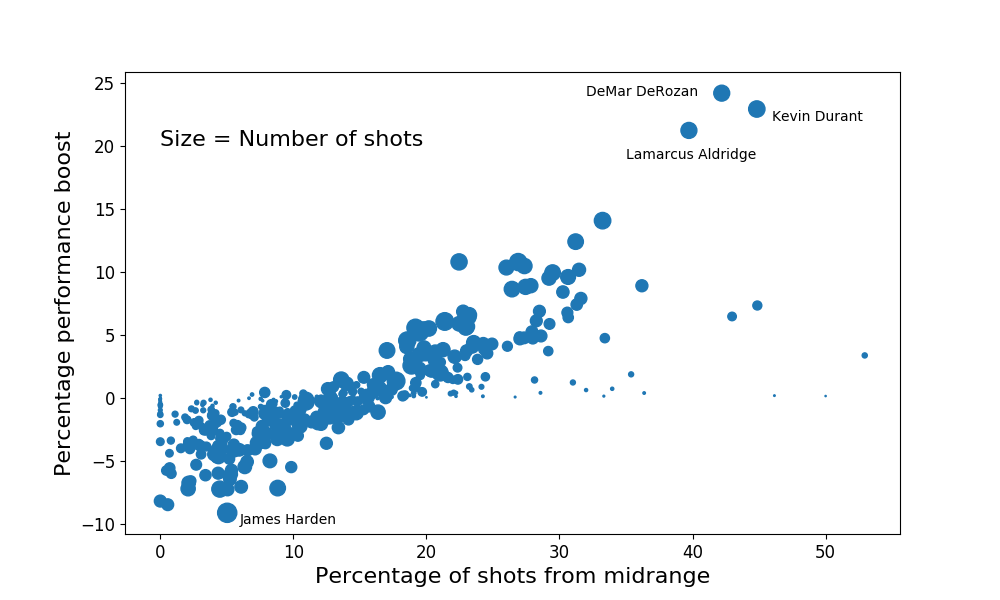
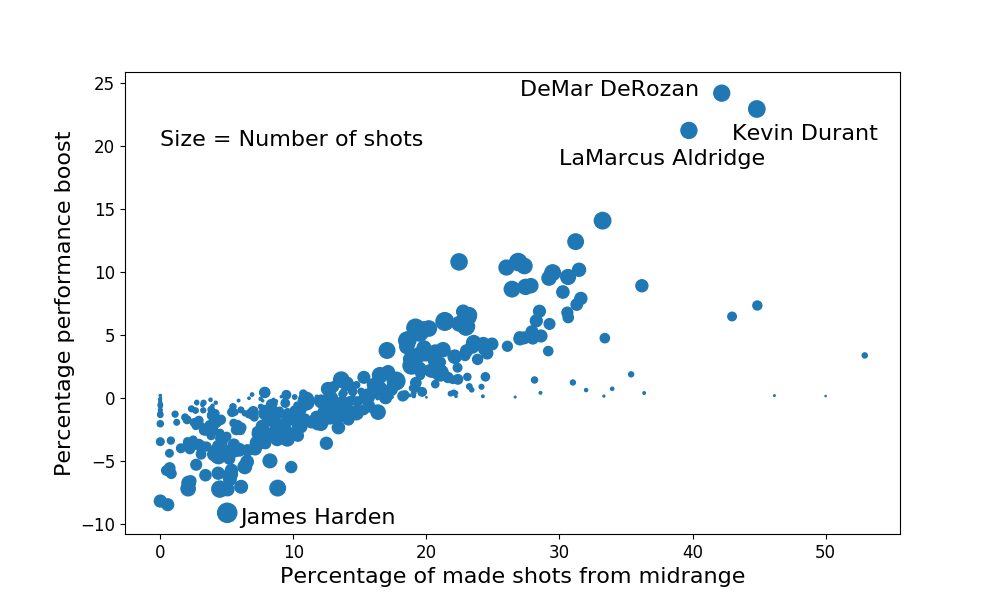
Emi edits

diff --git a/_posts/2019-09-25-nba.md b/_posts/2019-09-25-nba.md
@@ -10,19 +10,19 @@ tags:
 
 The rise of analytics in the NBA has led to the realization that *mid-range shots* (those that come from outside of the key but inside of the three-point line) are a relatively inefficient way to score points. This has resulted in a [league-wide abandonment of the mid-range jumper](https://flowingdata.com/2019/01/15/goodbye-mid-range-shot/) in favor of a [tremendous increase in three-point shots](https://www.theringer.com/nba/2019/2/27/18240583/3-point-boom-nba-daryl-morey). Now, I am all for using statistics to be better at sports, but those of us that watched legends like Michael Jordan or Dirk Nowitzki in their heyday can't help but feel a pang of sadness. Rationality be damned, seeing Kobe Bryant shoot an off-balance long two over a defender's outstretched hands was pure magic. Moments like that are the reason people watch basketball in the first place.
 
-Unfortunately, although I am a basketball romantic, mathematics is definitely not. To see what I mean, take a look at the clip below.
+Unfortunately, although I am a basketball romantic, mathematics is definitely not. Take a look at the clip below.
 
 {% include streamablePlayer.html id=page.streamableId %}
 
-Dennis Smith Jr. considers taking a wide-open three, and then steps forward to instead take a long two. This was a bad decision. The two point shot DSJ chose to take is only slightly easier than the three that he passed up, but the latter one also had a 50% higher point reward! That's like only reading the left pages of a book. Or like deliberately picking an ugly outfit for a first date. Why make life harder for yourself? Look, I know the Knicks are an easy target, but this example just illustrated my point too perfectly for me to not use it.
+Dennis Smith Jr. considers taking a wide-open three, and then steps forward to instead take a long two. This was a bad decision. The two point shot is only slightly easier than the three that he passed up, but the latter also had a 50% higher point reward! That's like only reading the left pages of a book. Or like deliberately picking an ugly outfit for a first date. Why make life harder for yourself? Look, I know the Knicks are an easy target, but this example just illustrated my point too perfectly for me to not use it.
 
-For the same reason you might bury your face into your palm while watching that clip, teams are encouraging their players to shoot more and more from outside the three-point line. So we can expect the mid-range to continue floundering into obscurity. This reality, after all, is dictated by the rules of the game. But...what if, just for fun, we changed the rules?
+Teams are encouraging their players to shoot more and more from outside the three-point line. So we can expect the mid-range to continue floundering into obscurity. This reality, after all, is dictated by the rules of the game. But...what if, just for fun, we changed the rules?
 
 The New Math of the Bizarro NBA
 ======
 Legend has it that Antoine Walker was once asked why he shot so many threes. His response: "Because there are no fours". Walker himself was not a great shooter, but he raises an interesting point: what if shots were worth something besides two or three points? After all, it seems fair that a 28-foot shot should be worth more than a 24-foot shot which should be worth more than a 15-foot shot. 
 
-Imagine an alternate Bizarro universe, where Bizarro NBA Commissioner Adam Silver proclaims that in the 2019-2020 season of the Bizarro NBA, shot values will be adjusted. One can imagine more lines added to the court to indicate a four-point distance, a 2.5-point distance, etc. But that would look terrible and is in fact not at all necessary. [Modern video technology](http://grantland.com/features/the-toronto-raptors-sportvu-cameras-nba-analytical-revolution/) can track all ten players on the court for every minute of every game, and so it's easy to figure out where on the floor each shot originated from. This allows us to ask the question: **what if the value of every NBA shot was determined by the exact distance of the shot from the hoop?**
+Imagine an alternate Bizarro universe, where Bizarro NBA Commissioner Adam Silver proclaims that shot values will be adjusted in the 2019-20 Bizarro NBA season. One can imagine more lines added to the court to indicate a four-point distance, a 2.5-point distance, etc. But that would be confusing and is in fact not at all necessary. [Modern video technology](http://grantland.com/features/the-toronto-raptors-sportvu-cameras-nba-analytical-revolution/) can track all ten players on the court for every minute of every game, so it's easy to figure out where on the floor each shot originated from. This allows us to ask the question: **what if the value of every NBA shot was determined by the exact distance of the shot from the hoop?**
 
 Let's say that a shot taken right underneath the hoop is worth the old familiar 2 points, and that a shot taken exactly at the three-point line at the top of the key is worth 3 points. For a given shot distance \\( x \\), the point value of the shot is given by
 \\(
@@ -34,32 +34,32 @@ We can visualize what this new points system looks like by considering DeMar DeR
 
 ![demar-plot](/images/for-posts/nba/derozan.png){:class="img-responsive"}
 
-On the left, all of those black dots are worth exactly two points and the yellow dots are worth three. On the right there is a continuous range of colors since each dot has an individual value depending on how far away the dot is from the basket. All of a sudden, what were previously DeRozan's long two's are now two-point-eight's, and DeRozan's style goes from being an outdated throwback to a potentially valuable strategy.
+On the left, all of those black dots are worth exactly two points and the yellow dots are worth exactly three. On the right, there is a continuous range of colors since each dot has an individual value depending on how far away the dot is from the basket. What were previously DeRozan's long two's are now two-point-eight's. His style all of a sudden goes from being an outdated throwback to a potentially valuable strategy.
 
 BNBA All-Stars
 ======
 
-We can make a list of every single shot taken during the 2018-19 NBA season, and calculate how many points that shot would be worth in the Bizarro NBA by using the distance from the shooter to the hoop. Then for each player, we can add up all the shots he took to get a new Bizarro point total. (In this case, I am ignoring all points from free throws: the only that matters is points that come from a made basket during the normal flow of the game.) Here is a comparison of the real NBA point totals vs. the new ones:
+We can make a list of every single shot taken during the 2018-19 NBA season, and calculate how many points each shot would be worth in the Bizarro NBA by using the distance from the shooter to the hoop. We can add up all the shots each player took to get a new Bizarro point total. (In this case, I am ignoring all points from free throws: the only points that matter are those that come from a made basket during the normal flow of the game.) Here is a comparison of the real NBA point totals vs. the new ones.
 
 ![point-plot](/images/for-posts/nba/point-plot.png){:class="img-responsive"}
 
-So the more real points a player scored then the more bizarro points they would have scored. Makes sense. There is also not a whole lot of spread in the point distribution, which means that the new point system probably does not make a huge impact on overall point scoring. Let's look at this a few other ways.
+So the more real points a player scored then the more Bizarro points they would have scored. Makes sense. There is not a whole lot of spread in the point distribution, which means that the new point system probably does not make a huge impact on overall point scoring. Let's look at this a few other ways.
 
-We can rank all the NBA players in the 2018-19 season both by the real number of points they scored as well as by the hypothetical Bizarro points. So each player has two rankings: a real one and a Bizarro one. Here is a plot that compares the these two rankings for the top 100 scorers. 
+We can rank all the NBA players in the 2018-19 season, both by the real number of points they scored as well as by the hypothetical Bizarro points. So each player has two rankings: a real one and a Bizarro one. Here is a plot that compares the these two rankings for the top 100 scorers. 
 
 ![rank-plot](/images/for-posts/nba/rank-plot.png){:class="img-responsive"}
 
 That red line indicates players who have the same exact ranking in both cases. Dots below the line have a better (lower) ranking in the new system, and dots above the line have a worse (higher) ranking in the new system. You can see a little bit more clearly the impact that the rule change has. Some players move up or down by 5-10 places in the ranking order...but nobody really moves into a new echelon of scoring prowess, for better or for worse.
 
-I want to see specifically which current NBA players would benefit (or suffer) the most from this bizarro point system. One question to ask: how does a player's scoring output compared to the league average in the real NBA change with the Bizarro NBA point system? Consider a player's performance boost, which I define as the change in a player's scoring output compared to the league average scoring output. So, if Player X scores 10% more points than the average player in the real NBA, but 15% more than the average player in the Bizarro NBA, then his performance boost would be 15 - 10 = 5%. Furthermore, you would expect that the players that take a higher fraction of their shots in the mid-range (like Demar DeRozan) would get bigger performance boosts. And that is in fact the case: the following plot shows the performance boost vs. the percentage of a player's shots that come from the area further than 10 ft away from the hoop and closer than the three point line.
+I want to see specifically which current NBA players would benefit (or suffer) the most from this bizarro point system. One question to ask: how does a player's scoring output compared to the league average in the real NBA change with the Bizarro NBA point system? Consider a player's performance boost, which I define as the change in a player's scoring output compared to the league average scoring output. So, if Player X scores 10% more points than the average player in the real NBA, but 15% more than the average player in the Bizarro NBA, then his performance boost would be 15 - 10 = 5%. Furthermore, you would expect the players who take a higher fraction of their shots in the mid-range (like Demar DeRozan) would get bigger performance boosts. And that is in fact the case: the following plot shows the performance boost vs. the percentage of a player's shots that come from the area farther than 10 ft away from the hoop and closer than the three point line.
 
 ![change-plot](/images/for-posts/nba/change-plot.png){:class="img-responsive"}
 
-Each dot corresponds to one player, and the size relates to the number of shots taken by that player. The general trend is that the more mid-range shots a player takes, the more likely this new point system is to benefit him. There are clearly three players who benefit the most from this system. Demar DeRozan and Lamarcus Aldridge are both known for taking a lot of jump shots, so it's not surprising to see their dots so high up. But I was surprised by the third name: Kevin Durant. He's already so dominant offensively...and this would make him even better.
+Each dot corresponds to one player, and the size relates to the number of shots taken by that player. The general trend is that the more mid-range shots a player takes, the more likely this new point system benefits him. There are clearly three players who gain the most from this system. Demar DeRozan and Lamarcus Aldridge are both known for taking a lot of jump shots, so it's not surprising to see them excel in the Bizarro NBA. But I was surprised by the third name: Kevin Durant. He's already so dominant offensively...and with the Bizarro rules he would score even more.
 
-At the lower left corner, you see James Harden's dot (which is the biggest because he takes the most shots), meaning that he gets slightly worse compared to the average player. This makes sense, as Harden prioritizes taking shots either very close to the hoop or at the three-point line, both of which are not increased much in the Bizarro NBA. However James Harden is still clearly the highest scorer even taking into account a slightly worse performance relative to the average.
+James Harden's dot (which is the biggest because he takes the most shots) is in the lower left corner, meaning that he gets slightly worse compared to the average player. Harden prioritizes taking shots either very close to the hoop or at the three-point line, so this makes sense. Both of these shots are not increased much in the Bizarro NBA. However James Harden is still clearly the highest scorer even taking into account a slightly worse performance relative to the average.
 
-In the end, the Bizarro NBA might not look all that different from what we have here in the real universe. Its unclear to me whether this change would make basketball more exciting. On the one hand, imagine a team hitting a six-point full-court buzzer-beater to win the game! One the other hand, ties (and therefore overtime) are far less likely. And of course this entire premise is impractical and makes the game harder to follow. One thing is clear though: we should enjoy KD while we can, since he is the closest thing we have to a modern-day Black Mamba. In this case, calling him a snake is a compliment.
+In the end, the Bizarro NBA might not look all that different from what we have here in the real universe. Its unclear to me whether this change would make basketball more exciting. On the one hand, imagine a team hitting a six-point full-court buzzer-beater to win the game! One the other hand, ties (and therefore overtime) are far less likely. And of course this entire premise is impractical and makes the game harder to follow. One thing is clear though: we should enjoy Kevin Durant while we can, since he is the closest thing we have to a modern-day Black Mamba. In this case, calling him a snake is a compliment.
 
 Technical Details
 ------
